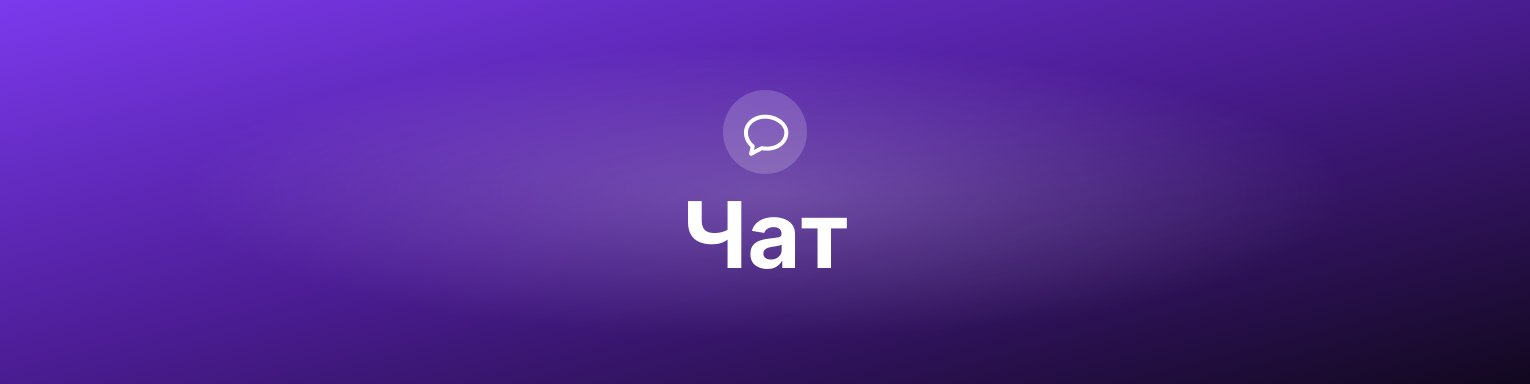
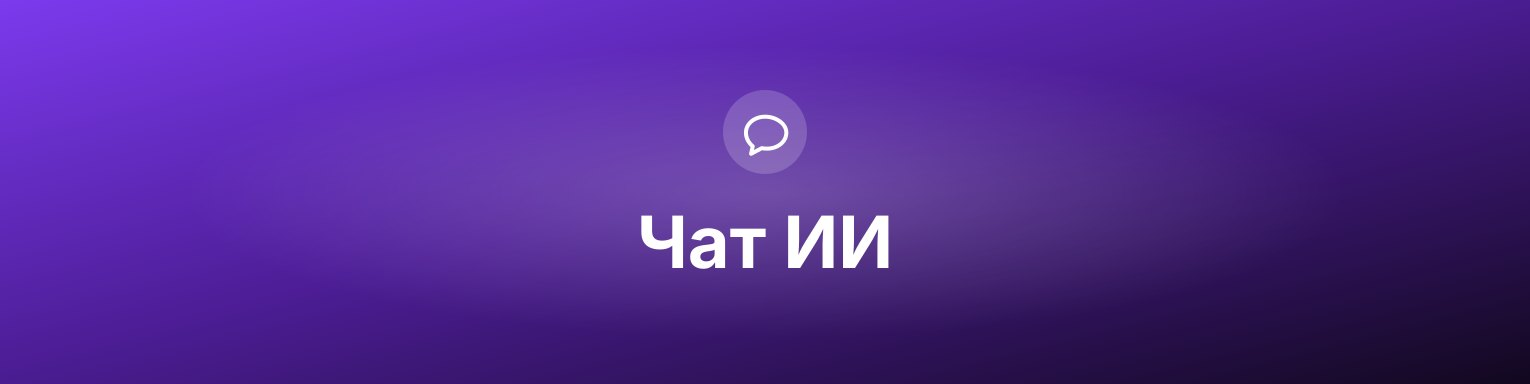
Открывать виджеты с телефона так же, как кабинет.
Рейтинг и сайт больше не ведут в приложение ВК. Чат подписан «Чат ИИ». При запуске бот заново ставит эти кнопки в сообщества.

Changed region(s): [[0.3993, 0.5, 0.5837, 0.7188]]

diff --git a/public/index.html b/public/index.html
@@ -361,6 +361,12 @@ async function adoptVkLaunch(){
 async function load(){
   await adoptVkLaunch();
   paintVkBot();
+  if (!userId && window.__vkGoal === 'rate') {
+    tab = 'rate';
+    await loadConfig();
+    draw();
+    return;
+  }
   if (!userId) { draw(); return; }
   try {
     const r = await fetchT('/api/me', {headers: authHeaders()});
@@ -410,6 +416,11 @@ function draw(){
   const box = document.getElementById('view');
   if (window.__vkOffline && (!userId || (me && me.error))) {
     box.innerHTML = '<div class="card"><p>Кабинет открыт. Сервер бота не ответил, поэтому баланс и генерация ещё не загрузились.</p><button class="btn" type="button" onclick="retryOpen()">Повторить</button><p class="empty">'+(isVk()?'Бот в чате сообщества при этом работает. Напишите туда, если повтор не помогает.':'Откройте кабинет ещё раз из чата бота.')+'</p></div>';
+    return;
+  }
+  if (!userId && window.__vkGoal === 'rate' && tab === 'rate') {
+    box.innerHTML = '<div class="card" id="ratebox"><div class="empty">Считаю баллы…</div></div>';
+    loadRating();
     return;
   }
   if (!userId || (me && !me.user_id && me.error!==true && !me.balance)) {
@@ -478,14 +489,19 @@ function paintVkBot(){
     el.dataset.out = url;
   });
 }
+function awayLink(url){
+  return 'https://vk.com/away.php?to=' + encodeURIComponent(url);
+}
 function coverCode(groupId, ids){
   const group = String(groupId).replace(/\D/g, '');
   const chat = 'https://vk.com/write-' + group;
-  const app = 'https://vk.com/app54895627_-' + group;
+  const home = fileOrigin();
+  const rate = awayLink(home + '/vk.html?vk_group_id=' + group + '&goal=rate');
+  const site = awayLink((cfg && cfg.site_url) || 'https://babayagaland.ru');
   const rows = [
-    { title: 'Чат', button: 'Написать', cover_id: ids.chat, url: chat, button_url: chat, title_url: chat },
-    { title: 'Рейтинг', button: 'Открыть', cover_id: ids.rate, url: app + '#rate', button_url: app + '#rate', title_url: app + '#rate' },
-    { title: 'Сайт', button: 'Открыть', cover_id: ids.site, url: app + '#site', button_url: app + '#site', title_url: app + '#site' }
+    { title: 'Чат ИИ', button: 'Написать', cover_id: ids.chat, url: chat, button_url: chat, title_url: chat },
+    { title: 'Рейтинг', button: 'Открыть', cover_id: ids.rate, url: rate, button_url: rate, title_url: rate },
+    { title: 'Сайт', button: 'Открыть', cover_id: ids.site, url: site, button_url: site, title_url: site }
   ];
   return 'return ' + JSON.stringify({ title: 'НейроЯга', rows }) + ';';
 }
@@ -1394,7 +1410,9 @@ function renderRating(d){
     const cls = 'rank'+(place<=3?' top'+place:'')+(mine && String(mine.userId)===String(row.userId)?' me':'');
     return '<div class="'+cls+'"><div class="medal">'+place+'</div>'+faceHtml(row)+'<div class="who"><b>'+esc(row.name)+'</b><span>лайки '+row.likes+' · комментарии '+row.comments+' · репосты '+row.reposts+' · бот '+row.bot+'</span></div><div class="pts">'+row.points+'</div></div>';
   }).join('');
-  const own = mine
+  const own = d.guest
+    ? '<div class="now">Своё место откроется кнопкой «Кабинет» в чате.</div>'
+    : mine
     ? '<div class="now">Ваше место: <b>'+mine.place+'</b> · '+mine.points+' б.</div>'
     : '<div class="now">Вас пока нет в списке этой недели.</div>';
   const rules = d.rules || {};

diff --git a/core/vk-widget.js b/core/vk-widget.js
@@ -1,11 +1,12 @@
 const fs = require('fs');
 const path = require('path');
 const sharp = require('sharp');
+const catalog = require('./catalog');
 
 const COVERS = {
-    chat: { title: 'Чат', button: 'Написать', file: 'chat.jpg', chat: true },
-    rate: { title: 'Рейтинг', button: 'Открыть', file: 'rate.jpg', hash: '#rate' },
-    site: { title: 'Сайт', button: 'Открыть', file: 'site.jpg', hash: '#site' }
+    chat: { title: 'Чат ИИ', button: 'Написать', file: 'chat.jpg', chat: true },
+    rate: { title: 'Рейтинг', button: 'Открыть', file: 'rate.jpg', hash: 'rate' },
+    site: { title: 'Сайт', button: 'Открыть', file: 'site.jpg', hash: 'site' }
 };
 
 function groupNumber(groupId) {
@@ -16,11 +17,24 @@ function chatLink(groupId) {
     return `https://vk.com/write-${groupNumber(groupId)}`;
 }
 
+function serviceBase() {
+    return String(process.env.WEBAPP_URL || 'https://neirozhiga-ai-telegram-bot-production-7ae5.up.railway.app').replace(/\/$/, '');
+}
+
+function siteUrl() {
+    return catalog.getGeneral().site_url || 'https://babayagaland.ru';
+}
+
+function away(url) {
+    return `https://vk.com/away.php?to=${encodeURIComponent(url)}`;
+}
+
 function groupLink(groupId, hash) {
     const group = groupNumber(groupId);
     const goal = String(hash || '').replace(/^#/, '');
-    const fragment = goal === 'rate' || goal === 'site' || goal === 'sub' ? `#${goal}` : '';
-    return `https://vk.com/app54895627_-${group}${fragment}`;
+    if (goal === 'site') return away(siteUrl());
+    if (goal === 'rate') return away(`${serviceBase()}/vk.html?vk_group_id=${group}&goal=rate`);
+    return away(`${serviceBase()}/vk.html?vk_group_id=${group}`);
 }
 
 function coverWidgetCode(groupId, ids) {
@@ -59,7 +73,7 @@ function vkMessage(error, fallback) {
 }
 
 const LOOKS = {
-    chat: { word: 'Чат', from: '#7c3aed', via: '#4c1d95', to: '#12081f', mark: 'M21 12.2c0 3.8-3.6 6.8-8.2 6.8-.8 0-1.6-.1-2.3-.2L6 21.2l.7-3.2C5 16.6 3.8 14.5 3.8 12.2 3.8 8.4 7.4 5.4 12 5.4s9 3 9 6.8z' },
+    chat: { word: 'Чат ИИ', from: '#7c3aed', via: '#4c1d95', to: '#12081f', mark: 'M21 12.2c0 3.8-3.6 6.8-8.2 6.8-.8 0-1.6-.1-2.3-.2L6 21.2l.7-3.2C5 16.6 3.8 14.5 3.8 12.2 3.8 8.4 7.4 5.4 12 5.4s9 3 9 6.8z' },
     rate: { word: 'Рейтинг', from: '#f59e0b', via: '#b45309', to: '#1c1208', mark: 'M12 2.2l2.7 5.6 6.2.9-4.5 4.3 1.1 6.1L12 16.2 6.5 19.1l1.1-6.1L3.1 8.7l6.2-.9z' },
     site: { word: 'Сайт', from: '#14b8a6', via: '#0f766e', to: '#04201c', mark: 'M4 6.5h16a1.5 1.5 0 0 1 1.5 1.5v8A1.5 1.5 0 0 1 20 17.5H4A1.5 1.5 0 0 1 2.5 16V8A1.5 1.5 0 0 1 4 6.5zm5.2 13h5.6' }
 };
@@ -88,7 +102,7 @@ function coverSvg(name) {
       <path d="${look.mark}"/>
     </g>
   </g>
-  <text x="765" y="268" text-anchor="middle" font-family="Inter, DejaVu Sans, sans-serif" font-size="92" font-weight="700" fill="#ffffff">${look.word}</text>
+  <text x="765" y="268" text-anchor="middle" font-family="Inter, DejaVu Sans, sans-serif" font-size="${look.word.length > 5 ? 72 : 92}" font-weight="700" fill="#ffffff">${look.word}</text>
 </svg>`;
 }
 

diff --git a/ui_modules/webapp_server.js b/ui_modules/webapp_server.js
@@ -313,14 +313,19 @@ function startWebApp() {
     }
 
     // ---- Пользовательские эндпоинты ----
-    app.get('/api/rating', requireUser, async (req, res) => {
+    app.get('/api/rating', async (req, res) => {
         try {
+            const userId = resolveUserId(req);
+            const asked = String(req.query.group || '').replace(/\D/g, '');
+            const known = asked && vk.communityList().some(item => item.id === asked) ? asked : '';
+            if (!userId && !known) return res.status(401).json({ error: 'auth_required' });
             const range = activity.weekRange(new Date());
-            if (Number(req.userId) >= 0) return res.json({ vk: false, week: range.label, rows: [], mine: null });
-            const rows = await vk.attachFaces(await db.listWeekActivity(range.start, vk.communityId(req.query.group)));
-            const place = rows.findIndex(row => String(row.userId) === String(req.userId));
+            if (userId && Number(userId) >= 0) return res.json({ vk: false, week: range.label, rows: [], mine: null });
+            const rows = await vk.attachFaces(await db.listWeekActivity(range.start, known || vk.communityId(req.query.group)));
+            const place = userId ? rows.findIndex(row => String(row.userId) === String(userId)) : -1;
             res.json({
                 vk: true,
+                guest: !userId,
                 week: range.label,
                 rules: activity.POINTS,
                 rows: rows.slice(0, 20),

diff --git a/core/vk.js b/core/vk.js
@@ -2551,6 +2551,21 @@ async function startVk() {
         ensureLessonPin(item.token, item.id).catch(() => {
             console.error(`ВК ${item.id}: закреп уроков не подготовлен.`);
         });
+        ensureCommunityWidget(item.token, item.id).catch(() => {});
+    }
+}
+
+async function ensureCommunityWidget(token, groupId) {
+    try {
+        const widget = require('./vk-widget');
+        const ids = {};
+        for (const name of ['chat', 'rate', 'site']) {
+            ids[name] = await widget.uploadCover(token, await widget.paintCover(name));
+        }
+        await widget.publishCover(token, widget.coverWidgetCode(groupId, ids));
+        console.log(`ВК ${groupId}: кнопки сообщества обновлены.`);
+    } catch (error) {
+        console.error(`ВК ${groupId}: кнопки сообщества не обновлены. ${error && error.message ? error.message : ''}`.trim());
     }
 }
 
